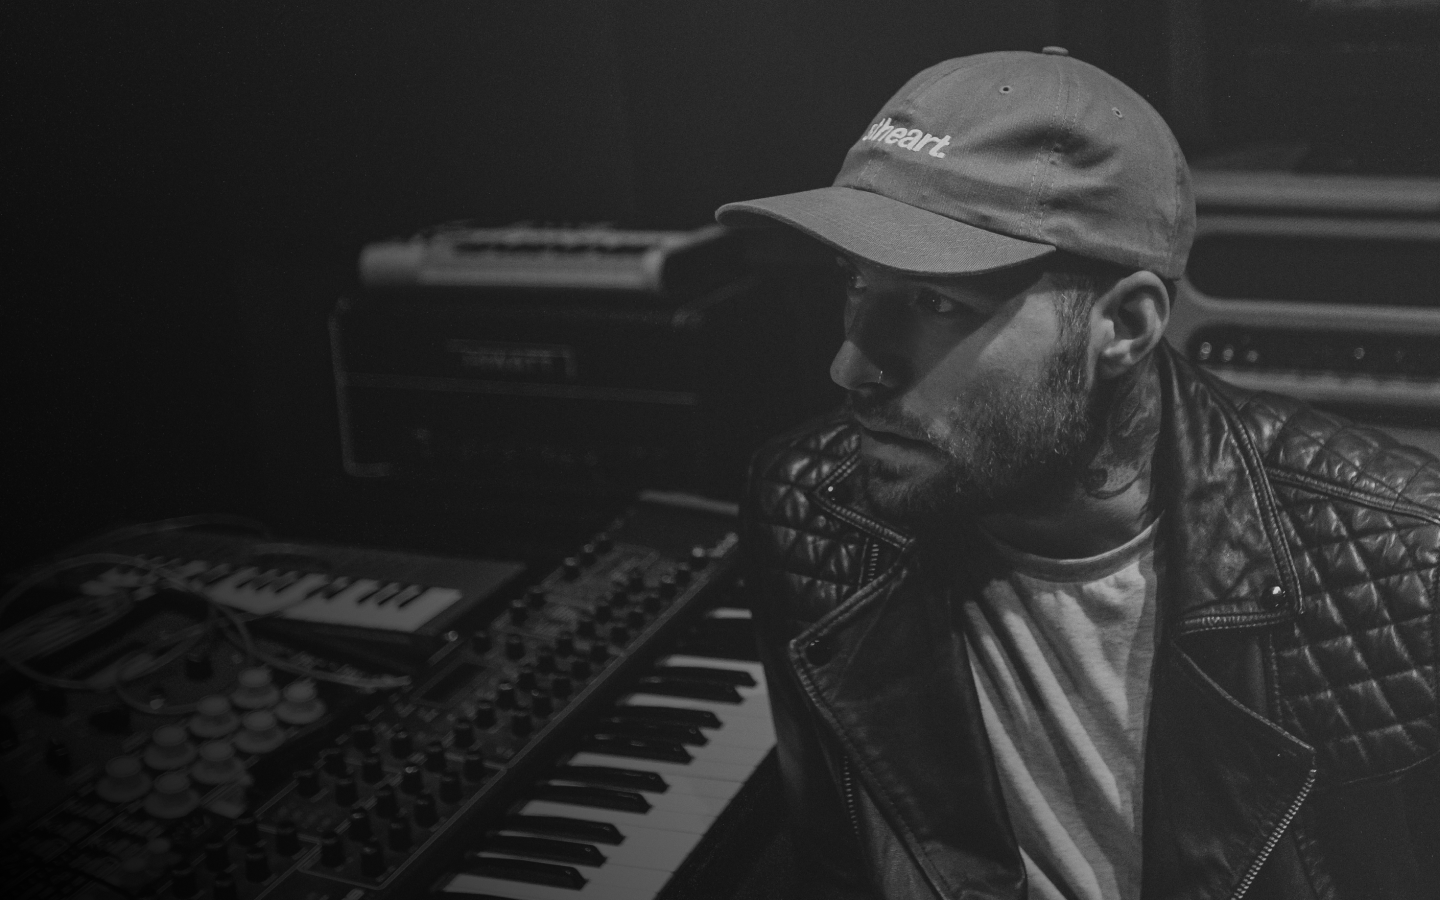
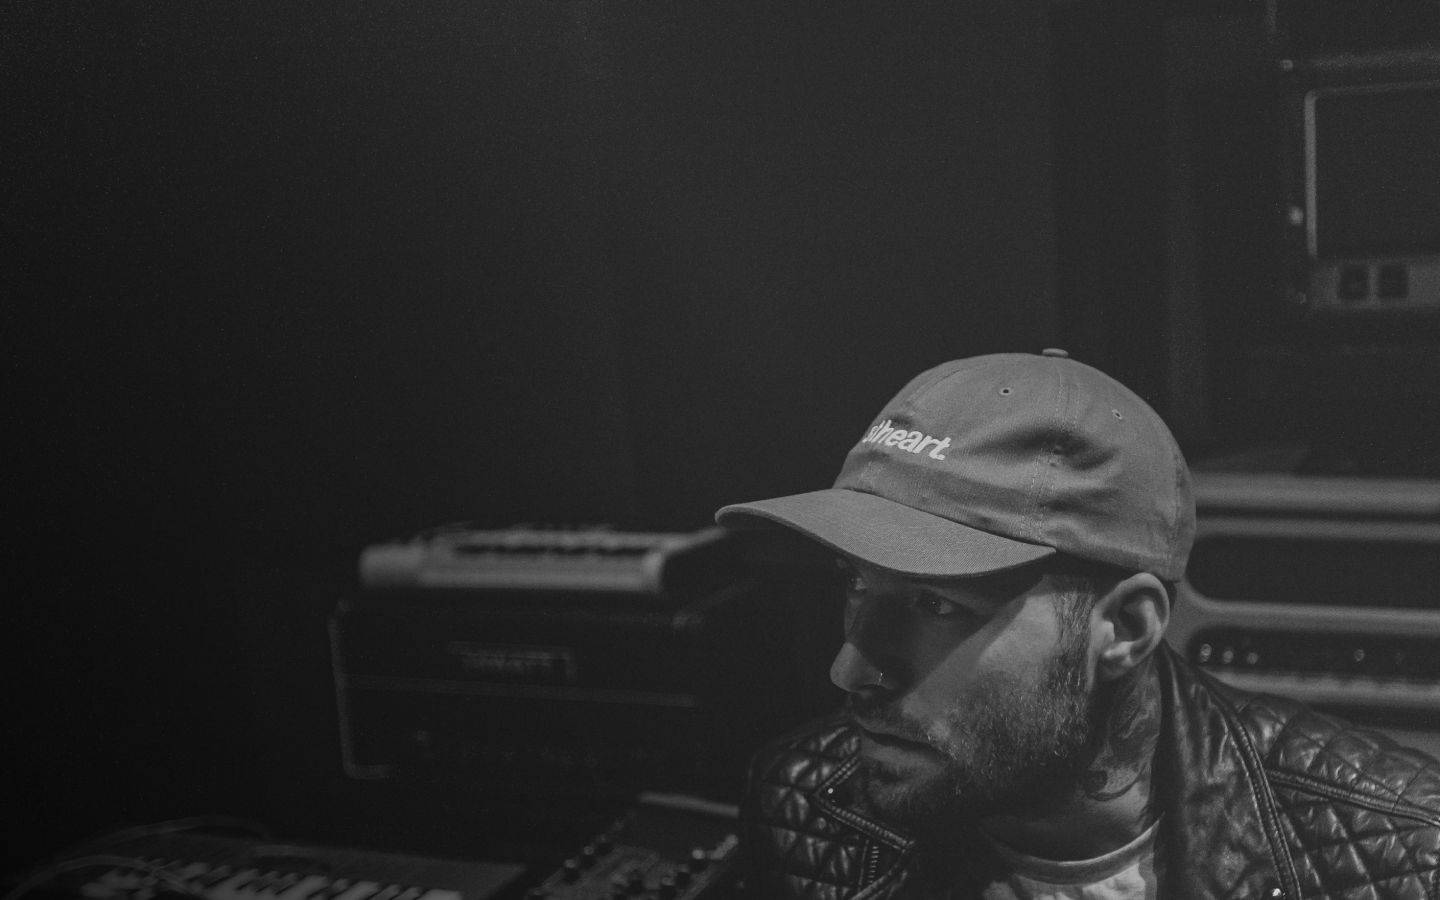
Better set up header, nav, background

diff --git a/src/styles/index.scss b/src/styles/index.scss
@@ -1,4 +1,6 @@
 /* global */
+@import './colors';
+
 html, body {
   color: white;
   font-size: 18px;
@@ -7,76 +9,57 @@ html, body {
 }
 
 h2 {
-  font-size: 48px;
+  font-size: 40px;
   font-weight: 700;
-  margin-bottom: 25px;
+  margin: 0;
+  padding: 0 0 5px 0;
+
+  @media(min-width: 640px) {
+    font-size: 48px;
+  }
 }
 
 h3 {
-  color: #EEBB94;
+  color: $peach;
   font-size: 32px;
   font-weight: 700;
-  margin-bottom: 45px;
+  margin: 0;
+  padding: 0 0 45px 0;
 }
 
 h4 {
   font-size: 22px;
   font-weight: 700;
-  margin-bottom: 10px;
+  margin: 0;
+  padding: 0 0 10px 0;
 }
 
 p {
-  margin-bottom: 35px;
+  margin: 0;
+  padding: 0 0 35px 0;
 }
 
-/* header */
-.header {
-  align-items: center;
-  display: flex;
-  justify-content: space-between;
-  padding: 10px 30px;
-}
-
-.logo {
-  color: #EEBB94;
-  font-size: 32px;
-  font-weight: 700;
+.link {
+  color: white;
+  font-weight: bold;
   text-decoration: none;
   transition: all 250ms ease;
-}
 
-.socials {
-  display: flex;
-  align-items: center;
-  justify-content: center;
-
-  > a {
-    margin: 0 10px;
-
-    > svg {
-      transition: all 250ms ease;
-    }
-
-    &:hover > svg {
-      transform: scale(1.2) rotate(15deg);
-    }
+  &:hover {
+    text-decoration: underline;
   }
 }
 
-/* background */
-.bg-container {
-  position: absolute;
-  top: 0;
-  left: 0;
-  width: 100%;
+.link--colored {
+  color: $peach;
 }
 
-.bg-image {
-  height: 100vh;
-}
+/* components */
+@import './header';
 
 /* content */
 .content {
+  background: $black;
   color: white;
   position: relative;
   // top: 50%;

diff --git a/src/styles/header.scss b/src/styles/header.scss
@@ -1,0 +1,89 @@
+@import './colors';
+
+.header {
+  position: relative;
+}
+
+.nav {
+  align-items: center;
+  display: flex;
+  justify-content: space-between;
+  padding: 10px 20px;
+  position: absolute;
+  top: 0;
+  left: 0;
+  width: 100%;
+
+  @media(min-width: 640px) {
+    padding: 10px 30px;
+  }
+}
+
+.logo {
+  color: $peach;
+  font-size: 32px;
+  font-weight: 700;
+  text-decoration: none;
+  transition: all 250ms ease;
+}
+
+.socials {
+  display: flex;
+  align-items: center;
+  justify-content: center;
+
+  > a {
+    margin: 0 10px;
+
+    > svg {
+      transition: all 250ms ease;
+    }
+
+    &:hover > svg {
+      transform: scale(1.2) rotate(15deg);
+    }
+  }
+}
+
+.bg-image {
+  // min-width: 450px;
+  height: 100vh;
+
+  @media(min-width: 640px) {
+    height: 100vh;
+  }
+}
+
+.bio {
+  padding: 10px 20px;
+  position: absolute;
+  top: 80px;
+  left: 0;
+  width: 100%;
+  max-width: 520px;
+
+  @media(min-width: 640px) {
+    padding: 10px 30px;
+    top: 150px;
+  }
+}
+
+.icon--colored {
+  align-items: center;
+  background: $peach;
+  border-radius: 50%;
+  display: inline-flex;
+  height: 40px;
+  justify-content: center;
+  margin-right: 10px;
+  width: 40px;
+
+  > svg {
+    color: $black;
+  }
+
+  @media(min-width: 640px) {
+    height: 48px;
+    width: 48px;
+  }
+}

diff --git a/src/layouts/index.js b/src/layouts/index.js
@@ -3,7 +3,8 @@ import PropTypes from 'prop-types';
 import Helmet from 'react-helmet';
 import Img from 'gatsby-image';
 // components
-import Header from '../components/header'
+import Nav from '../components/nav';
+import Bio from '../components/bio';
 // styles
 import 'sanitize.css';
 import '../styles/index.scss';
@@ -23,16 +24,19 @@ export default class Layout extends Component {
           ]}
         />
 
-        <div className="bg-container">
-          <Img
-            className="bg-image"
-            sizes={bg.sizes}
-          />
-        </div>
+        <header className="header">
+          <div className="bg-container">
+            <Img
+              className="bg-image"
+              sizes={bg.sizes}
+            />
+          </div>
+
+          <Nav />
+          <Bio />
+        </header>
 
         <main className="content">
-          <Header />
-
           {children()}
         </main>
       </div>

diff --git a/src/components/bio.js b/src/components/bio.js
@@ -1,0 +1,22 @@
+import React, { Component } from 'react';
+// images
+import IconMail from '-!svg-react-loader?name=Mail!../images/icon-mail.svg';
+
+export default class Bio extends Component {
+  render() {
+    return (
+      <div className="bio">
+        <h2>Bradley Walden</h2>
+        <p>Lorem ipsum dolor sit amet, consectetur adipiscing elit. Sed dictum accumsan dolor sed consequat. Nullam euismod lectus sit amet ante dictum, et consectetur ligula luctus. Curabitur sodales elit nec iaculis interdum. Vestibulum vulputate tortor quis neque porttitor, eu fringilla tortor malesuada. Donec eros libero, hendrerit vel ipsum vitae, tempor consectetur ante.</p>
+
+        <div className="icon icon--colored">
+          <IconMail />
+        </div>
+
+        <a className="link link--colored" href="mailto:bradleyscottwalden@gmail.com">
+          bradleyscottwalden@gmail.com
+        </a>
+      </div>
+    )
+  }
+}

diff --git a/src/components/nav.js b/src/components/nav.js
@@ -4,8 +4,8 @@ import Link from 'gatsby-link';
 import IconInstagram from '-!svg-react-loader?name=Instagram!../images/instagram.svg';
 import IconTwitter from '-!svg-react-loader?name=Twitter!../images/twitter.svg';
 
-const Header = () => (
-  <header className="header">
+const Nav = () => (
+  <nav className="nav">
     <Link
       className="logo"
       to="/"
@@ -21,7 +21,7 @@ const Header = () => (
         <IconInstagram />
       </a>
     </div>
-  </header>
+  </nav>
 )
 
-export default Header;
+export default Nav;

diff --git a/src/styles/colors.scss b/src/styles/colors.scss
@@ -1,0 +1,2 @@
+$black: #121212;
+$peach: #EEBB94;
